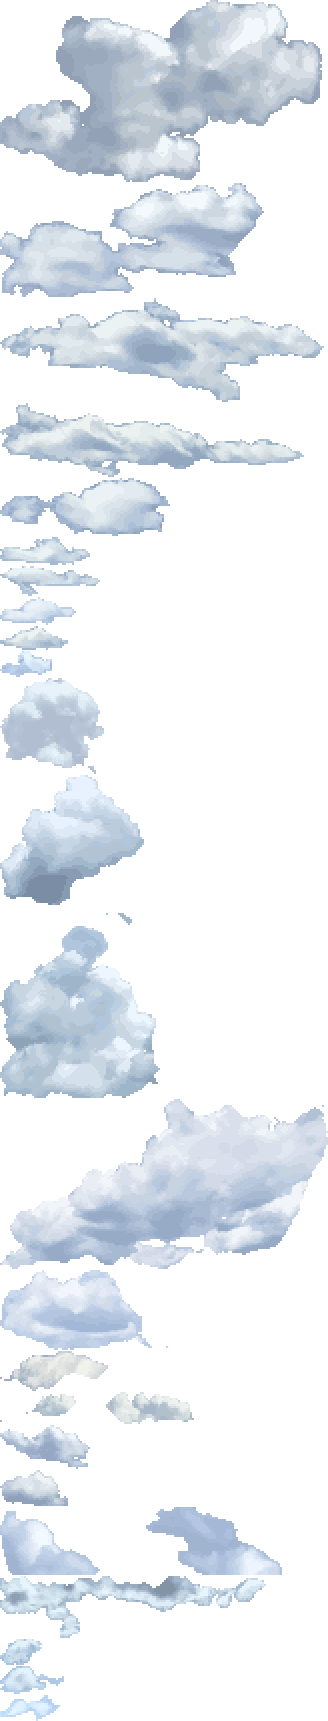
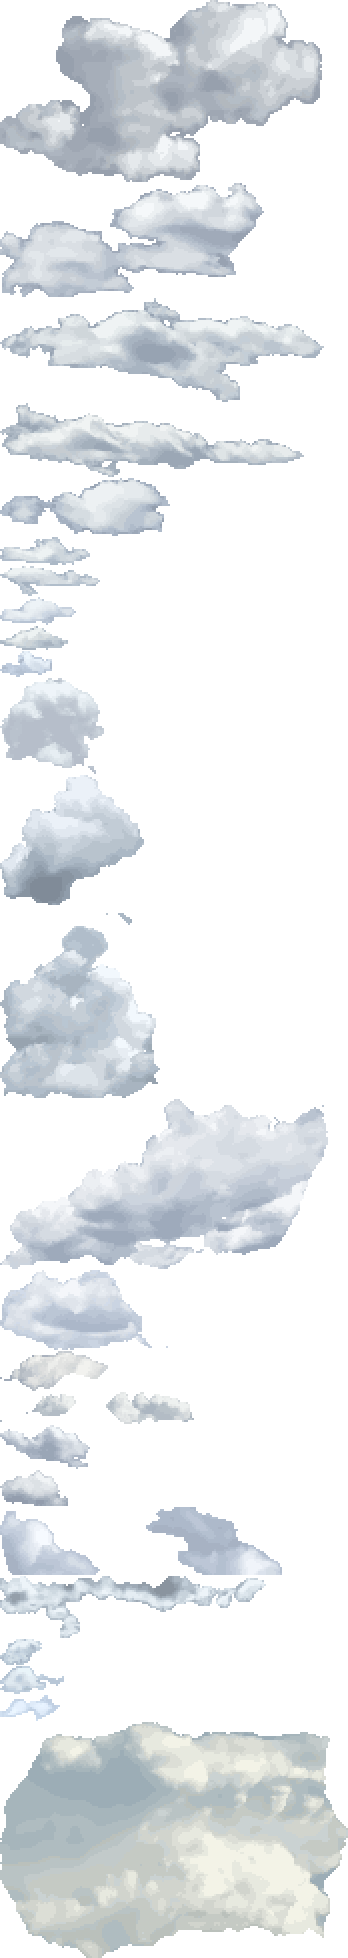
The storm's cell is the user's photograph: the mature cumulonimbus of cumulonimbus_02, cut from the streetlight pole rightward (the tower and the near anvil; the pole, the city and the tree at the frame's edge out), flagged cb in the clouds list so it stays out of the cumulus pools, drawn under the 

diff --git a/src/render/photoclouds.js b/src/render/photoclouds.js
@@ -37,7 +37,7 @@ if (typeof Image !== 'undefined') {
         }
         return { ...s, data };
       });
-      sheet = { sprites, lo, hi: Math.max(hi, lo + 1) };
+      sheet = { sprites, lo, hi: Math.max(hi, lo + 1), cb: sprites.find((s) => s.cb) || null };
     } catch (e) { console.warn('photo clouds not loaded', e); }
   })();
 }
@@ -67,7 +67,7 @@ function topContour(s) {
 // the pieces, the grammar is the code's. Parts are listed back to front, the base last; a
 // cloud that builds through an afternoon will add to this list.
 export function assembleCloud(r, sheet, far) {
-  const near = sheet.sprites.filter((s) => !s.far), small = sheet.sprites.filter((s) => s.far);
+  const near = sheet.sprites.filter((s) => !s.far && !s.cb), small = sheet.sprites.filter((s) => s.far);
   const pick = (pool) => pool[Math.floor(r() * pool.length)];
   if (far || near.length < 2) return { parts: [{ photo: pick(far ? small : near), x: 0, y: 0 }] };
   const base = pick(near);
@@ -107,7 +107,7 @@ function recolored(s, tones, key, env) {
   if (s.cache && s.cacheKey === key) return s.cache;
   const { w, h, data } = s;
   if (!s.cache) { const [cv, g] = makeCanvas(w, h); s.cache = cv; s.cacheCtx = g; s.img = g.createImageData(w, h); }
-  paint(data, s.img, tones, env);
+  paint(data, s.img, tones, env, !!s.cb);
   s.cacheCtx.putImageData(s.img, 0, 0);
   s.cacheKey = key;
   return s.cache;
@@ -124,14 +124,14 @@ export function photoCloudSprite(c, tones, key, env) {
   }
   const { w, h, data } = c.photo;
   if (!c.sprite) { const [cv, g] = makeCanvas(w, h); c.sprite = cv; c.spriteCtx = g; c.img = g.createImageData(w, h); }
-  paint(data, c.img, tones, env);
+  paint(data, c.img, tones, env, !!c.cb);
   c.spriteCtx.putImageData(c.img, 0, 0);
   c.spriteKey = key;
   return c.sprite;
 }
 
 // Recolor one sprite's pixels (data) into img through the hour's tones.
-function paint(data, img, tones, env) {
+function paint(data, img, tones, env, cb = false) {
   // how this hour's light changed each step of the ramp, against a clear noon
   // The cover's dimming of the valley's light is taken back out: a cumulus top is in full sun
   // above whatever shades the ground, and the photos were taken under partly cloudy skies
@@ -140,8 +140,11 @@ function paint(data, img, tones, env) {
   // is taken out as well, since a sunlit cumulus top is white whenever the sun is up; the
   // correction fades through dusk so the clouds still dim into the night
   const day = daylight(1);
-  let lift = 1 / (1 - 0.32 * (env ? (env.cond.shade ?? env.cond.cover) : 0));
-  if (env) {
+  // (not under a storm: the cell is the cover, and the light really is down; the cell itself
+  // keeps some, since its anvil stands in sun above the sheet and a lit anvil over a dark
+  // valley is the storm's beauty)
+  let lift = env && env.cond.storm ? (cb ? 1.3 : 1) : 1 / (1 - 0.32 * (env ? (env.cond.shade ?? env.cond.cover) : 0));
+  if (env && !(env.cond.storm)) {
     const amb = env.pal.ambient, lum = Math.max(0.4, (0.299 * amb[0] + 0.587 * amb[1] + 0.114 * amb[2]));
     lift *= 1 + clamp(env.sun.altitude / 10, 0, 1) * (1 / lum - 1);
   }

diff --git a/src/render/weatherfx.js b/src/render/weatherfx.js
@@ -180,6 +180,17 @@ export class WeatherFX {
   makeCumulonimbus(env) {
     const r = mulberry32(1234 + Math.floor(env.wind.dir));
     const dir = Math.sin(env.wind.dir * RAD) >= 0 ? 1 : -1;   // the anvil streams downwind
+    const ph = photoClouds();
+    if (ph && ph.cb) {
+      // the user's photographed cell (cumulonimbus_02: a mature cell, its anvil streaming to the
+      // left), drawn mirrored when the wind runs the other way; its base sits over the ranges
+      const s = ph.cb;
+      const c = { photo: s, w: s.w, h: s.h, depth: 1.3, cb: true, flip: dir > 0, sprite: null, spriteKey: '' };
+      // over Dean Stone, its cut base behind the crest, the anvil streaming out over the valley
+      c.x = Math.floor(W * (dir > 0 ? 0.2 : 0.4) + r() * W * 0.1);
+      c.y = Math.floor(HORIZON * 0.47 - c.h);
+      return c;
+    }
     const c = layoutCloud(r, 1.75, { tower: true, anvil: true, anvilDir: dir });
     c.depth = 1.3; c.cb = true;
     c.x = Math.floor(W * (dir > 0 ? 0.08 : 0.4) + r() * W * 0.15);
@@ -209,7 +220,8 @@ export class WeatherFX {
       }
       const { tones, key } = cloudTones(env, c.depth, near);
       const sprite = c.photo ? photoCloudSprite(c, tones, key, env) : cloudSprite(c, tones, key, lightX, lightY);
-      ctx.drawImage(sprite, Math.round(c.x), c.y);
+      if (c.flip) { ctx.save(); ctx.translate(Math.round(c.x) + c.w, c.y); ctx.scale(-1, 1); ctx.drawImage(sprite, 0, 0); ctx.restore(); }
+      else ctx.drawImage(sprite, Math.round(c.x), c.y);
     }
   }
 

diff --git a/tools/build_clouds.py b/tools/build_clouds.py
@@ -5,7 +5,7 @@ Each entry of "clouds" in art/NAME.json names a photo under art/ and the cloud i
   {"photo": "clouds/cumulus_01.jpg", "box": [fx0, fy0, fx1, fy1], "clip": true, "scale": 0.4, "far": false}
 box picks the cloud (fractions of the frame), clip also cuts along the box for a cloud joined to
 its neighbors, all keeps every cloud in the box (tools/cut_cloud.py), scale is sprite pixels per photo pixel, far marks a small
-cloud for the rows near the cloud horizon. Each cut-out goes through tools/pixelate.py as a
+cloud for the rows near the cloud horizon, cb a cumulonimbus (the storm's cell, never in the cumulus pools). Each cut-out goes through tools/pixelate.py as a
 cloud. Writes assets/clouds.png (the sprites stacked top to bottom) and assets/clouds.json
 (their rectangles), and the half-size copies in assets/small/. No drawing: every sprite pixel is
 an average of the photo's own pixels.
@@ -59,7 +59,7 @@ def main():
     for im, e in sprites:
         h, w = im.shape[:2]
         sheet[y:y + h, :w] = im
-        rects.append({'x': 0, 'y': y, 'w': w, 'h': h, 'far': bool(e.get('far')), 'photo': e['photo']})
+        rects.append({'x': 0, 'y': y, 'w': w, 'h': h, 'far': bool(e.get('far')), 'cb': bool(e.get('cb')), 'photo': e['photo']})
         y += h + 2
     Image.fromarray(sheet, 'RGBA').save(os.path.join(ROOT, 'assets/clouds.png'), optimize=True)
     with open(os.path.join(ROOT, 'assets/clouds.json'), 'w') as f: json.dump({'sprites': rects}, f)

diff --git a/tools/pixelate.py b/tools/pixelate.py
@@ -119,6 +119,7 @@ def lift(lab, k):
     if hi > 0: L = L * min(0.97 / hi, 1.25)
     L = 0.97 + (L - 0.97) * (1 + 0.35 * k)                      # the shade deepened against the white, for depth
     out = lab.copy(); out[..., 0] = L.clip(0, 1)
+    out[..., 1:] *= 1 - 0.4 * k                                  # and the photo's cast (an evening's warmth, a lens's blue) eased toward neutral: the page adds the hour's color
     return out
 
 
